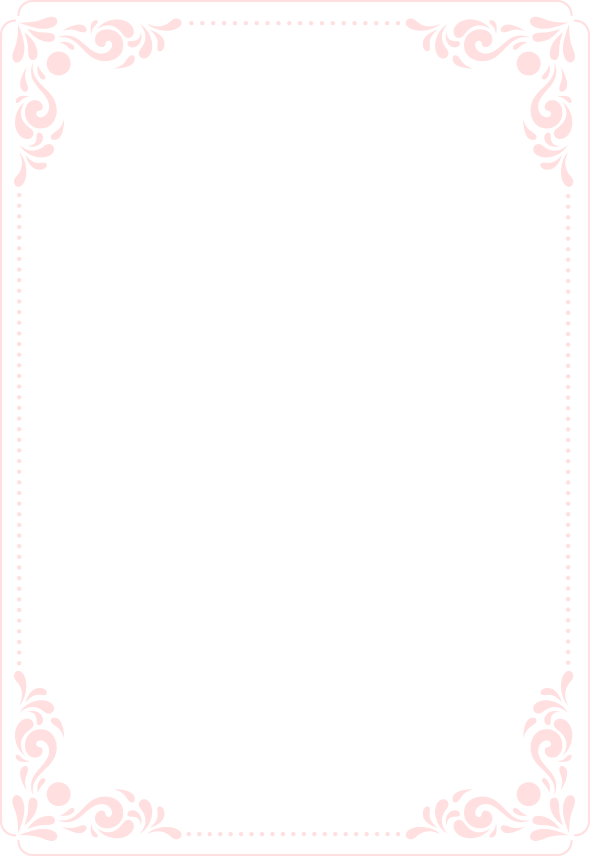
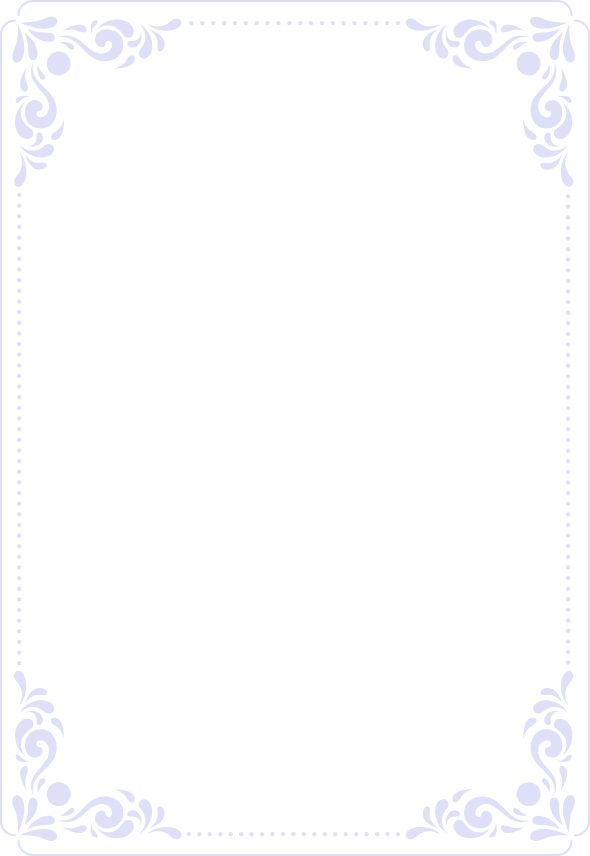
changing some clases

Changed region(s): [[0.0, 0.0, 1.0, 1.0]]

diff --git a/blog.html b/blog.html
@@ -89,7 +89,7 @@
     <section class="blog_area section-padding">
         <div class="container">
             <div class="row">
-                <div class="col-lg-8 mb-5 mb-lg-0">
+                <div class="col-lg-9 mb-5 mb-lg-0">
                     <div class="blog_left_sidebar">
                         <article class="blog_item">
                             <div class="blog_item_img">
@@ -99,11 +99,8 @@
                                     <p>Jan</p>
                                 </a>
                             </div>
-
                             <div class="blog_details">
-                                <a class="d-inline-block">
                                     <h2>Google inks pact for new 35-storey office</h2>
-                                </a>
                                 <p>That dominion stars lights dominion divide years for fourth have don't stars is that
                                     he earth it first without heaven in place seed it second morning saying.</p>
                             </div>
@@ -117,11 +114,8 @@
                                     <p>Jan</p>
                                 </a>
                             </div>
-
                             <div class="blog_details">
-                                <a class="d-inline-block">
                                     <h2>Google inks pact for new 35-storey office</h2>
-                                </a>
                                 <p>That dominion stars lights dominion divide years for fourth have don't stars is that
                                     he earth it first without heaven in place seed it second morning saying.</p>
                             </div>
@@ -135,11 +129,8 @@
                                     <p>Jan</p>
                                 </a>
                             </div>
-
                             <div class="blog_details">
-                                <a class="d-inline-block">
                                     <h2>Google inks pact for new 35-storey office</h2>
-                                </a>
                                 <p>That dominion stars lights dominion divide years for fourth have don't stars is that
                                     he earth it first without heaven in place seed it second morning saying.</p>
                             </div>

diff --git a/assets/css/style.css b/assets/css/style.css
@@ -2577,7 +2577,7 @@ hr {
   position: absolute;
   bottom: 0;
   align-items: end;
-  background: #e72526;
+  background: #3609d8;
   display: flex;
   padding: 32px 97px 32px 40px;
   opacity: 0;
@@ -2639,7 +2639,7 @@ hr {
 }
 .gallery-area .single-gallery .thumb-content-box .thumb-content a:hover {
   background: #fff;
-  color: #ff0000;
+  color: #3609d8;
 }
 .single-gallery:hover .thumb-content-box .thumb-content {
   opacity: 1;
@@ -3415,6 +3415,7 @@ hr {
   padding: 8px 15px;
   border-radius: 5px;
 }
+
 @media (min-width: 768px) {
   .blog_item_img .blog_item_date {
     bottom: -20px;
